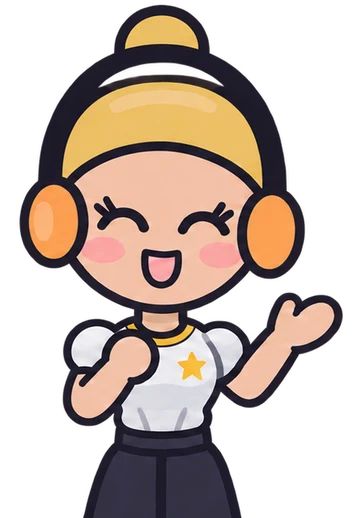
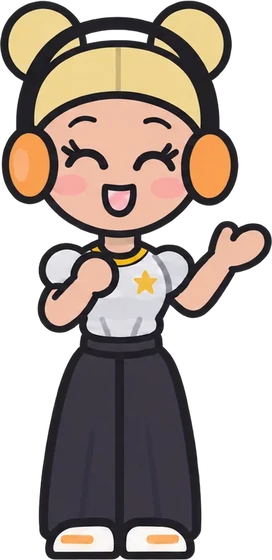
Maya: current art with space buns
Claude-Session: https://claude.ai/code/session_01KpWZEyRc6edNG2P41wytNw

diff --git a/index.html b/index.html
@@ -53,7 +53,7 @@
 
   <section class="band" style="padding-top:0"><div class="wrap">
     <div class="maya">
-      <img src="assets/maya.webp" alt="Maya, your manager" width="360" height="518" loading="lazy">
+      <img src="assets/maya.webp" alt="Maya, your manager" width="272" height="560" loading="lazy">
       <div><h3>Maya's got your back</h3><p>Your manager walks you through your first gigs. The rest of the story? You'll have to play to find out.</p>
         <a class="btn go" href="https://studiohustle.github.io/">Start your career</a></div>
     </div>
